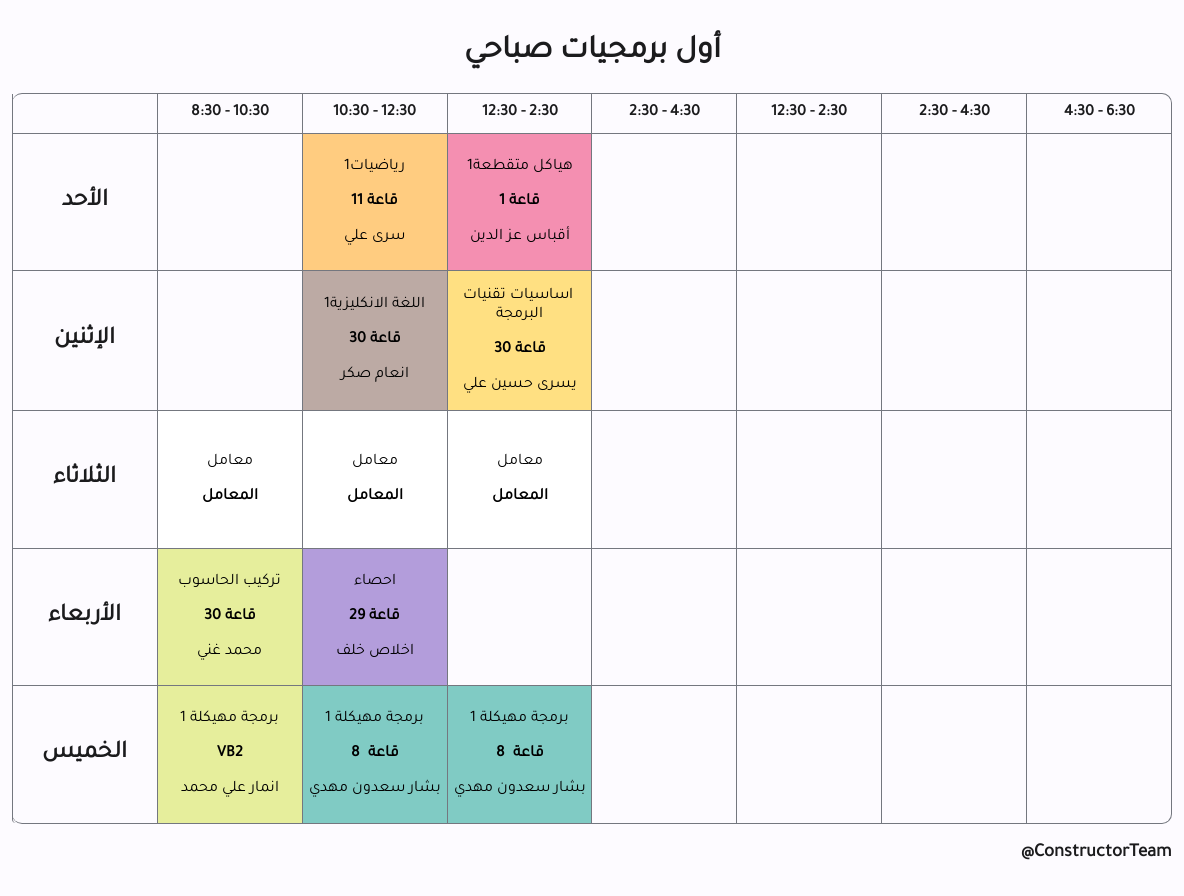
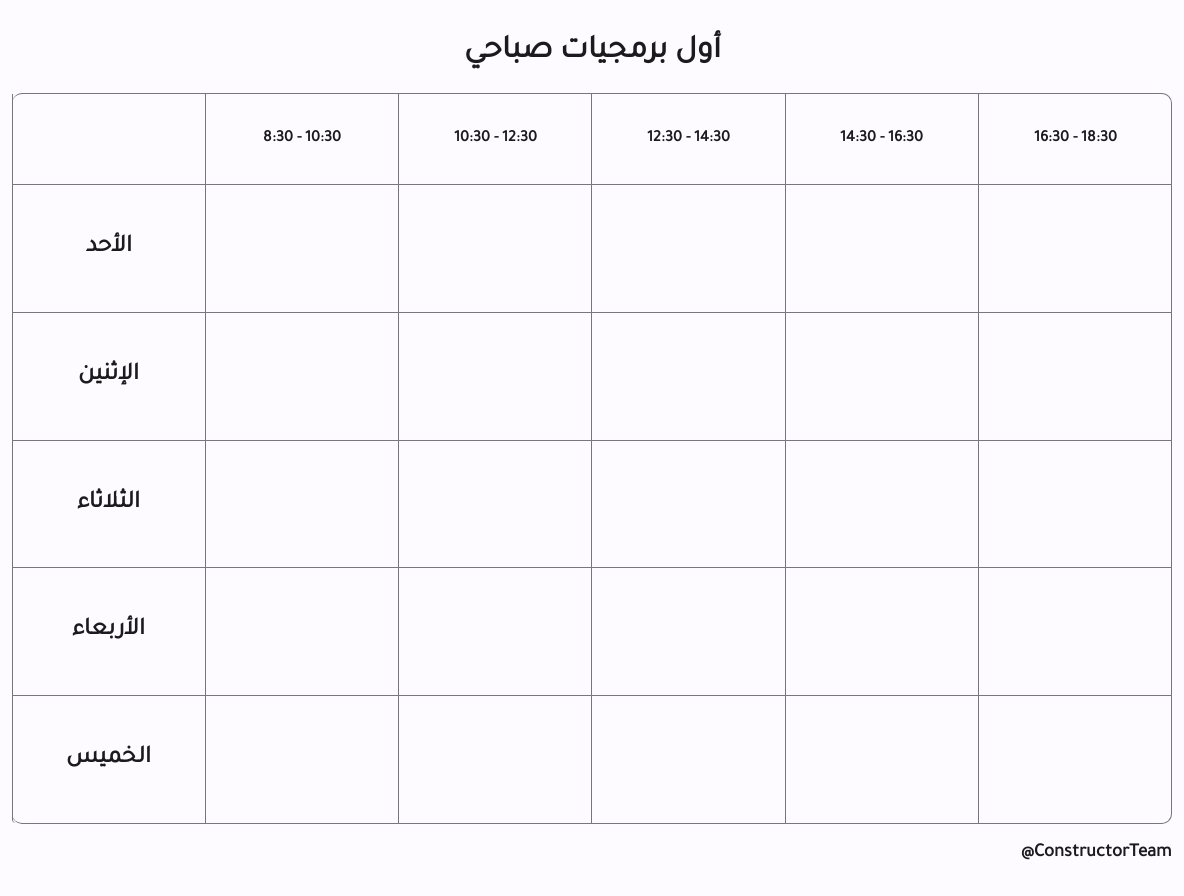
Fix v2 scraper

diff --git a/generated_data/table.g.html b/generated_data/table.g.html
@@ -86,14 +86,14 @@
         <table>
             <thead>
                 <colgroup>
-                    <col span="8" width="12.5%">
+                    <col span="6" width="16.666666666666668%">
                 </colgroup>
                 <tr>
                     <th></th>
-                    <th style="color: #1b1b1d">8:30 - 10:30</th><th style="color: #1b1b1d">10:30 - 12:30</th><th style="color: #1b1b1d">12:30 - 2:30</th><th style="color: #1b1b1d">2:30 - 4:30</th><th style="color: #1b1b1d">12:30 - 2:30</th><th style="color: #1b1b1d">2:30 - 4:30</th><th style="color: #1b1b1d">4:30 - 6:30</th> 
+                    <th style="color: #1b1b1d">8:30 - 10:30</th><th style="color: #1b1b1d">10:30 - 12:30</th><th style="color: #1b1b1d">12:30 - 14:30</th><th style="color: #1b1b1d">14:30 - 16:30</th><th style="color: #1b1b1d">16:30 - 18:30</th> 
                 </tr>
             </thead>
-            <tbody><tr><td style="color: #1b1b1d"><h2>الأحد</h2></td><td></td><td style="background-color: #ffcc80; color: #000000"><p>رياضيات1</p><p><b>قاعة 11</b></p><p>سرى علي</p></td><td style="background-color: #f48fb1; color: #000000"><p>هياكل متقطعة1</p><p><b>قاعة 1</b></p><p>أقباس عز الدين</p></td><td></td><td></td><td></td><td></td></tr><tr><td style="color: #1b1b1d"><h2>الإثنين</h2></td><td></td><td style="background-color: #bcaaa4; color: #000000"><p>اللغة الانكليزية1</p><p><b>قاعة 30</b></p><p>انعام صكر</p></td><td style="background-color: #ffe082; color: #000000"><p>اساسيات تقنيات البرمجة</p><p><b>قاعة 30</b></p><p>يسرى حسين علي</p></td><td></td><td></td><td></td><td></td></tr><tr><td style="color: #1b1b1d"><h2>الثلاثاء</h2></td><td style="background-color: white; color: #000000"><p>معامل</p><p><b>المعامل</b></p></td><td style="background-color: white; color: #000000"><p>معامل</p><p><b>المعامل</b></p></td><td style="background-color: white; color: #000000"><p>معامل</p><p><b>المعامل</b></p></td><td></td><td></td><td></td><td></td></tr><tr><td style="color: #1b1b1d"><h2>الأربعاء</h2></td><td style="background-color: #e6ee9c; color: #000000"><p>تركيب الحاسوب</p><p><b>قاعة 30</b></p><p>محمد غني</p></td><td style="background-color: #b39ddb; color: #000000"><p>احصاء</p><p><b>قاعة 29</b></p><p>اخلاص خلف</p></td><td></td><td></td><td></td><td></td><td></td></tr><tr><td style="color: #1b1b1d"><h2>الخميس</h2></td><td style="background-color: #e6ee9c; color: #000000"><p>برمجة مهيكلة 1</p><p><b>VB2</b></p><p>انمار علي محمد</p></td><td style="background-color: #80cbc4; color: #000000"><p>برمجة مهيكلة 1</p><p><b>قاعة  8</b></p><p>بشار سعدون مهدي</p></td><td style="background-color: #80cbc4; color: #000000"><p>برمجة مهيكلة 1</p><p><b>قاعة  8</b></p><p>بشار سعدون مهدي</p></td><td></td><td></td><td></td><td></td></tr></tbody>
+            <tbody><tr><td style="color: #1b1b1d"><h2>الأحد</h2></td><td></td><td></td><td></td><td></td><td></td></tr><tr><td style="color: #1b1b1d"><h2>الإثنين</h2></td><td></td><td></td><td></td><td></td><td></td></tr><tr><td style="color: #1b1b1d"><h2>الثلاثاء</h2></td><td></td><td></td><td></td><td></td><td></td></tr><tr><td style="color: #1b1b1d"><h2>الأربعاء</h2></td><td></td><td></td><td></td><td></td><td></td></tr><tr><td style="color: #1b1b1d"><h2>الخميس</h2></td><td></td><td></td><td></td><td></td><td></td></tr></tbody>
         </table>
         <h3 style="color: #1b1b1d; text-align: right;">@ConstructorTeam</h3>
     </div>

diff --git a/app/db/init_db_v2.py b/app/db/init_db_v2.py
@@ -7,6 +7,15 @@ from app.db.init_db import InitializeDatabaseWithASC
 from app.schemas.enums import CollageShifts
 
 
+def find_between(s: str, first: str, last: str):
+    try:
+        start = s.index(first) + len(first)
+        end = s.index(last, start)
+        return s[start:end]
+    except ValueError:
+        return ""
+
+
 class InitializeDatabaseWithASCV2(InitializeDatabaseWithASC):
     def init_classes(self):
         computer_science_department = crud.department.create(
@@ -36,7 +45,7 @@ class InitializeDatabaseWithASCV2(InitializeDatabaseWithASC):
             ),
             schemas.Branch(
                 id=uuid4(),
-                name="ذكاء اصطناعي",
+                name="ذكاء إصطناعي  ",
                 en_name="Artificial Intelligence",
                 abbr="AI",
                 vision=None,
@@ -107,12 +116,19 @@ class InitializeDatabaseWithASCV2(InitializeDatabaseWithASC):
                         )
                     ).id
                 else:
-                    name = re.sub(' +', ' ', class_.name)
+                    name: str = re.sub(' +', ' ', class_.name)
 
-                    name = name.split()
-                    level = levels[name[0]]
-                    shift = shifts[name[-1]]
-                    branch: schemas.Branch = list(filter(lambda b: b.name == branch, branches))[0]
+                    name_split: list[str] = name.split()
+                    level_name: str = name_split[0]
+                    shift_name: str = name_split[-1]
+
+                    level: int = levels[level_name]
+                    shift: str = shifts[shift_name]
+
+                    branch_name = find_between(name, level_name, shift_name).rstrip().lstrip()
+                    print(f"name, level_name, shift_name{branch_name}")
+
+                    branch: schemas.Branch = list(filter(lambda b: b.name == branch_name, branches))[0]
 
                     self.stages_ids[class_.id] = crud.stage.create(
                         db=self.db, obj_in=schemas.StageCreate(

diff --git a/app/utils.py b/app/utils.py
@@ -1,6 +1,5 @@
 from datetime import datetime, timedelta
 
-
 from jose import jwt
 
 from app.core.config import settings
@@ -23,5 +22,3 @@ def verify_password_reset_token(token: str) -> str | None:
         return decoded_token["email"]
     except jwt.JWTError:
         return None
-
-
